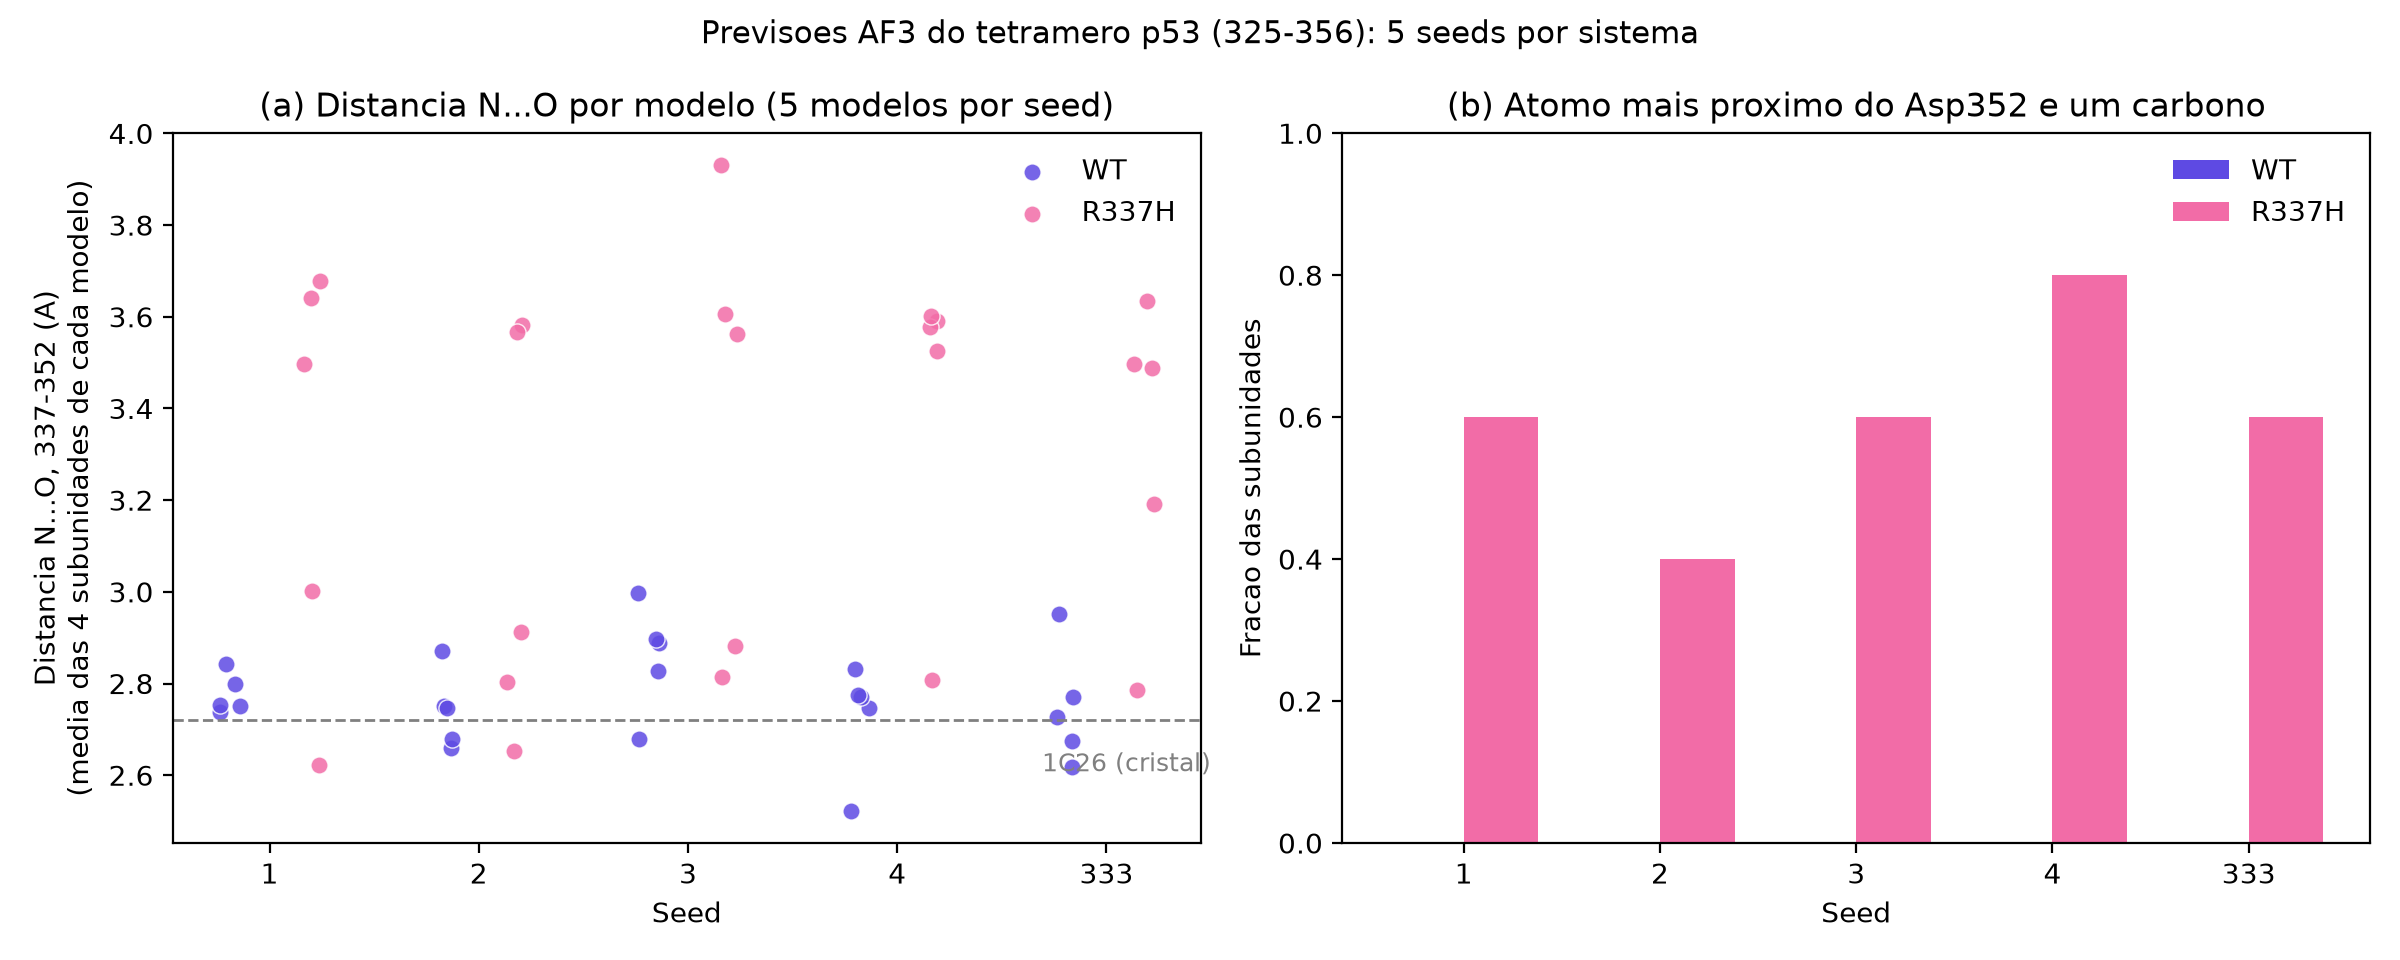
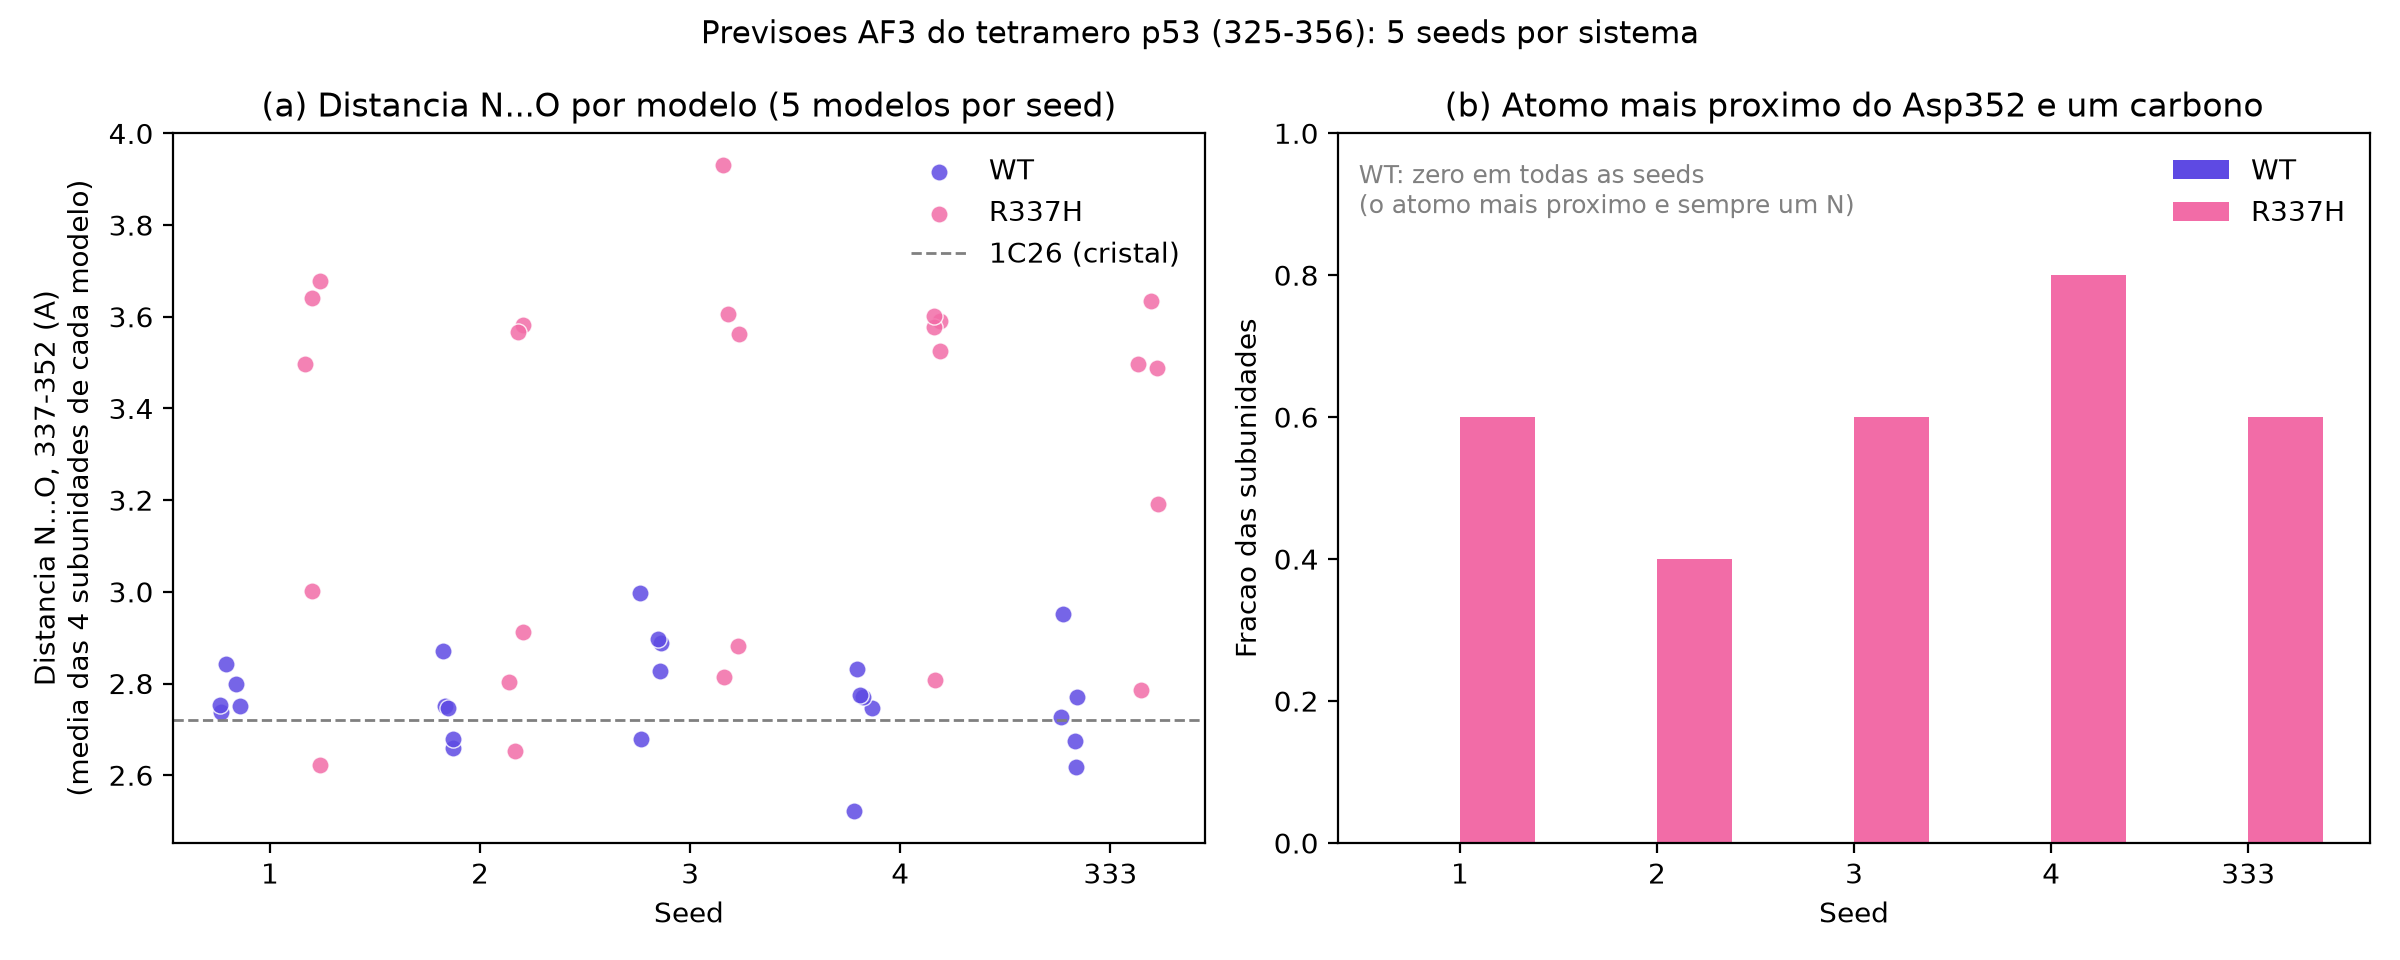
Ajusta figura 337-352 (legenda do cristal, nota no painel b)

diff --git a/scripts/generate_figures.py b/scripts/generate_figures.py
@@ -57,9 +57,7 @@ for system in ["WT", "R337H"]:
         x = k + off[system] + rng.uniform(-0.06, 0.06, len(y))
         ax1.scatter(x, y, s=38, color=COLORS[system], alpha=0.85,
                     label=system if k == 0 else None, edgecolor="white", linewidth=0.5)
-ax1.axhline(CRYSTAL, color="gray", ls="--", lw=1)
-ax1.text(len(SEED_ORDER) - 0.5, CRYSTAL - 0.07, "1C26 (cristal)", ha="right",
-         va="top", color="gray", fontsize=9)
+ax1.axhline(CRYSTAL, color="gray", ls="--", lw=1, label="1C26 (cristal)")
 ax1.set_xticks(range(len(SEED_ORDER)))
 ax1.set_xticklabels([str(s) for s in SEED_ORDER])
 ax1.set_xlabel("Seed")
@@ -79,6 +77,8 @@ ax2.set_xlabel("Seed")
 ax2.set_ylabel("Fracao das subunidades")
 ax2.set_title("(b) Atomo mais proximo do Asp352 e um carbono")
 ax2.legend(frameon=False)
+ax2.text(0.02, 0.96, "WT: zero em todas as seeds\n(o atomo mais proximo e sempre um N)",
+         transform=ax2.transAxes, va="top", fontsize=9, color="gray")
 
 fig.suptitle("Previsoes AF3 do tetramero p53 (325-356): 5 seeds por sistema", fontsize=11)
 fig.tight_layout()
